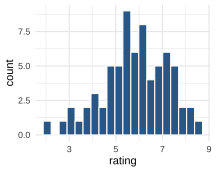
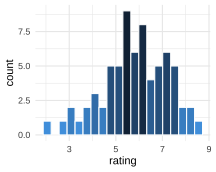
edp613

diff --git a/static/slides/Week 9/Slides-Week-9R.html b/static/slides/Week 9/Slides-Week-9R.html
@@ -721,10 +721,11 @@ Let's see what this looks like
 
 
 ```r
-ggplot(data = movies_sample, aes(x = rating,
-                                 fill = n)) +
-  geom_histogram(color = "white", bins = 20, show.legend = FALSE) +
-  theme_minimal()
+ggplot(movies_sample, aes(x = rating, fill = -..count..)) +
+       geom_histogram(color = "white", 
+                      bins = 20,
+                      show.legend = FALSE) +
+       theme_minimal()
 ```
 
 &lt;img src="Slides-Week-9R_files/figure-html/unnamed-chunk-45-1.png" style="display: block; margin: auto;" /&gt;
@@ -816,7 +817,7 @@ not_lame &lt;- do(10000) * summarize(resample(movies_sample),
 ```r
 samp &lt;- ggplot(data = not_lame , 
        mapping = aes(x = mean,
-                     fill = n)) +
+                     fill = -..count..)) +
   geom_histogram(bins = 30, 
                  color = "white",
                  show.legend = FALSE) +
